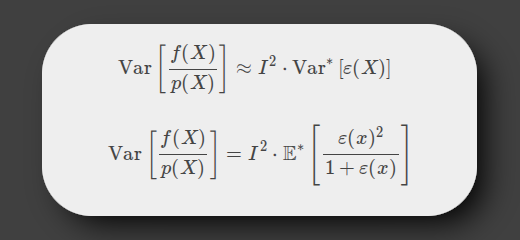
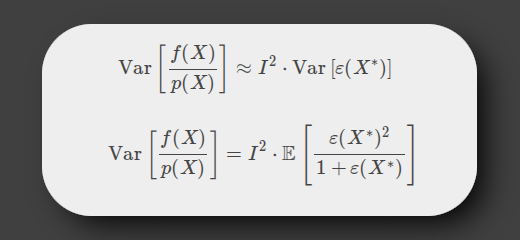
Tweak notation regarding ideal distribution in importance sampling variance article

Changed region(s): [[0.4923, 0.4958, 0.8, 0.7875], [0.6154, 0.2333, 0.7692, 0.3208]]

diff --git a/posts/estimating-variance-reduction-in-importance-sampling.html b/posts/estimating-variance-reduction-in-importance-sampling.html
@@ -97,9 +97,9 @@
                 \frac{f(x)}{I\cdot p(x)} = 1 \Longrightarrow p(x) = \frac{f(x)}{I}
             \]
 
-            <p>I will call this the <i>ideal</i> probability distribution \(p^*(x)\). With this distribution, the variance of a single sample is <i>zero</i>! Meaning that we get the correct answer with just one sample. Sounds suspicious, doesn't it?</p>
+            <p>I will call this the <i>ideal</i> probability distribution \(p^*(x)\), and I'll denote the samples from this distribution as \(X^*\). With this distribution, the variance of a single sample is <i>zero</i>! Meaning that we get the correct answer with just one sample. Sounds suspicious, doesn't it?</p>
 
-            <p>Look closer: to use this in Monte-Carlo integration, we need to compute the probability \(p^*(X)\) of a sample, which equals \(\frac{f(X)}{I}\). Given that we assumed that we know how to compute \(f(X)\), it means that we also need to know the value of \(I\) to compute this probability. But the value of \(I\) is exactly what we are trying to compute in the first place!</p>
+            <p>Look closer: to use this in Monte-Carlo integration, we need to compute the probability \(p^*(X^*)\) of a sample, which equals \(\frac{f(X^*)}{I}\). Given that we assumed that we know how to compute \(f(X^*)\), it means that we also need to know the value of \(I\) to compute this probability. But the value of \(I\) is exactly what we are trying to compute in the first place!</p>
 
             <p>So, the ideal distribution is kinda useless, since it requires knowing the desired integral in the first place. However, it's not completely useless! It still hints us that if our distribution \(p(x)\) is at least somewhat close to \(p^*(x)\), the value of \(\frac{f(x)}{I\cdot p(x)} - 1\) should still be close to zero, and we still should get <i>some</i> variance reduction.</p>
 
@@ -160,16 +160,16 @@
                  \mathrm{Var}\left[\frac{f(X)}{p(X)}\right] \approx I^2 \int\limits_\Omega p^*(x) \varepsilon(x)^2dx
             \]
 
-            <p>which can be interpreted as the expected value of \(\varepsilon(x)^2\) with respect to probability distribution \(p^*(x)\), which I'll denote as \(\mathbb E^*\left[\varepsilon(X)^2\right]\). The value</p>
+            <p>which can be interpreted as the expected value of \(\varepsilon(x)^2\) with respect to probability distribution \(p^*(x)\), which I'll denote as \(\mathbb E\left[\varepsilon(X^*)^2\right]\). The value</p>
 
             \[
                 \int\limits_\Omega p^*(x) \varepsilon(x) dx = 0
             \]
 
-            <p>can be interpreted in the same vein as the expected value \(\mathbb E^*\left[\varepsilon(X)\right]\) of \(\varepsilon(x)\) wrt the probability \(p^*(x)\). Because it is zero, we can derive</p>
+            <p>can be interpreted in the same vein as the expected value \(\mathbb E\left[\varepsilon(X^*)\right]\) of \(\varepsilon(x)\) wrt the probability \(p^*(x)\). Because it is zero, we can derive</p>
 
             \[
-                \mathrm{Var}\left[\frac{f(X)}{p(X)}\right] \approx I^2 \cdot \mathbb E^*\left[\varepsilon(X)^2\right] = I^2 \cdot \mathrm{Var}^*\left[\varepsilon(X)\right]
+                \mathrm{Var}\left[\frac{f(X)}{p(X)}\right] \approx I^2 \cdot \mathbb E\left[\varepsilon(X^*)^2\right] = I^2 \cdot \mathrm{Var}\left[\varepsilon(X^*)\right]
             \]
 
             <p>Thus, the variance of our Monte-Carlo estimator is approximately equal to \(I^2\) times the variance of the relative difference between our chosen probability distribution and the ideal one. That is, the more our samples differ from the ideal distribution, the more noise we get! This is something known in raytracing literature, but here we've derived an actual formula.</p>
@@ -183,12 +183,12 @@
             <p>We can still try to rewrite \(\frac{1}{1+\varepsilon}-1\) using the power series, drop the \(-\varepsilon\) term (because the integral of \(p^*(x)\varepsilon(x)\) is zero) which I'll denote with an arrow \(\rightarrow\), and then recognize the same power series once again:</p>
 
             \[
-                \frac{1}{1+\varepsilon(x)}-1 \quad\rightarrow\quad (1-\varepsilon(x)+\varepsilon(x)^2-\varepsilon(x)^3+\varepsilon(x)^4-\dots) - 1 = \\
-                = \varepsilon(x)^2-\varepsilon(x)^3+\varepsilon(x)^4-\dots = \varepsilon(x)^2\cdot(1-\varepsilon(x)+\varepsilon(x)^2-\dots) = \\
+                \frac{1}{1+\varepsilon(x)}-1 = (1-\varepsilon(x)+\varepsilon(x)^2-\varepsilon(x)^3+\varepsilon(x)^4-\dots) - 1 \quad\rightarrow \\
+                \rightarrow\quad \varepsilon(x)^2-\varepsilon(x)^3+\varepsilon(x)^4-\dots = \varepsilon(x)^2\cdot(1-\varepsilon(x)+\varepsilon(x)^2-\dots) = \\
                 = \frac{\varepsilon(x)^2}{1+\varepsilon(x)}
             \]
 
-            <p>However, this only works when \(|\varepsilon(x)|<1\). It turns out that we don't need the power series expansion to derive this formula: just add \(\varepsilon(x)\) to the original and combine the fractions:</p>
+            <p>However, the power series only works when \(|\varepsilon(x)|<1\). It turns out that we don't need the power series expansion to derive this formula: just add \(\varepsilon(x)\) to the original and combine the fractions:</p>
 
             \[
                 \frac{1}{1+\varepsilon(x)}-1 \quad\rightarrow\quad \frac{1}{1+\varepsilon(x)} - 1 + \varepsilon(x) = \frac{1}{1+\varepsilon(x)} - \frac{(1-\varepsilon(x))(1+\varepsilon(x))}{1+\varepsilon(x)} = \\
@@ -198,7 +198,7 @@
             <p>So, here's a better, non-approximate formula: the variance of the Monte-Carlo estimator depends on the relative difference \(\varepsilon(x)\) between the chosen and the ideal sample distributions as</p>
 
             \[
-                \mathrm{Var}\left[\frac{f(X)}{p(X)}\right] = I^2 \cdot \mathbb E^*\left[\frac{\varepsilon(x)^2}{1+\varepsilon(x)}\right] = I^2\int\limits_\Omega p^*(x)\frac{\varepsilon(x)^2}{1+\varepsilon(x)}dx
+                \mathrm{Var}\left[\frac{f(X)}{p(X)}\right] = I^2 \cdot \mathbb E\left[\frac{\varepsilon(X^*)^2}{1+\varepsilon(X^*)}\right] = I^2\int\limits_\Omega p^*(x)\frac{\varepsilon(x)^2}{1+\varepsilon(x)}dx
             \]
 
             <h2 id="section-discussion">Discussion</h2>
